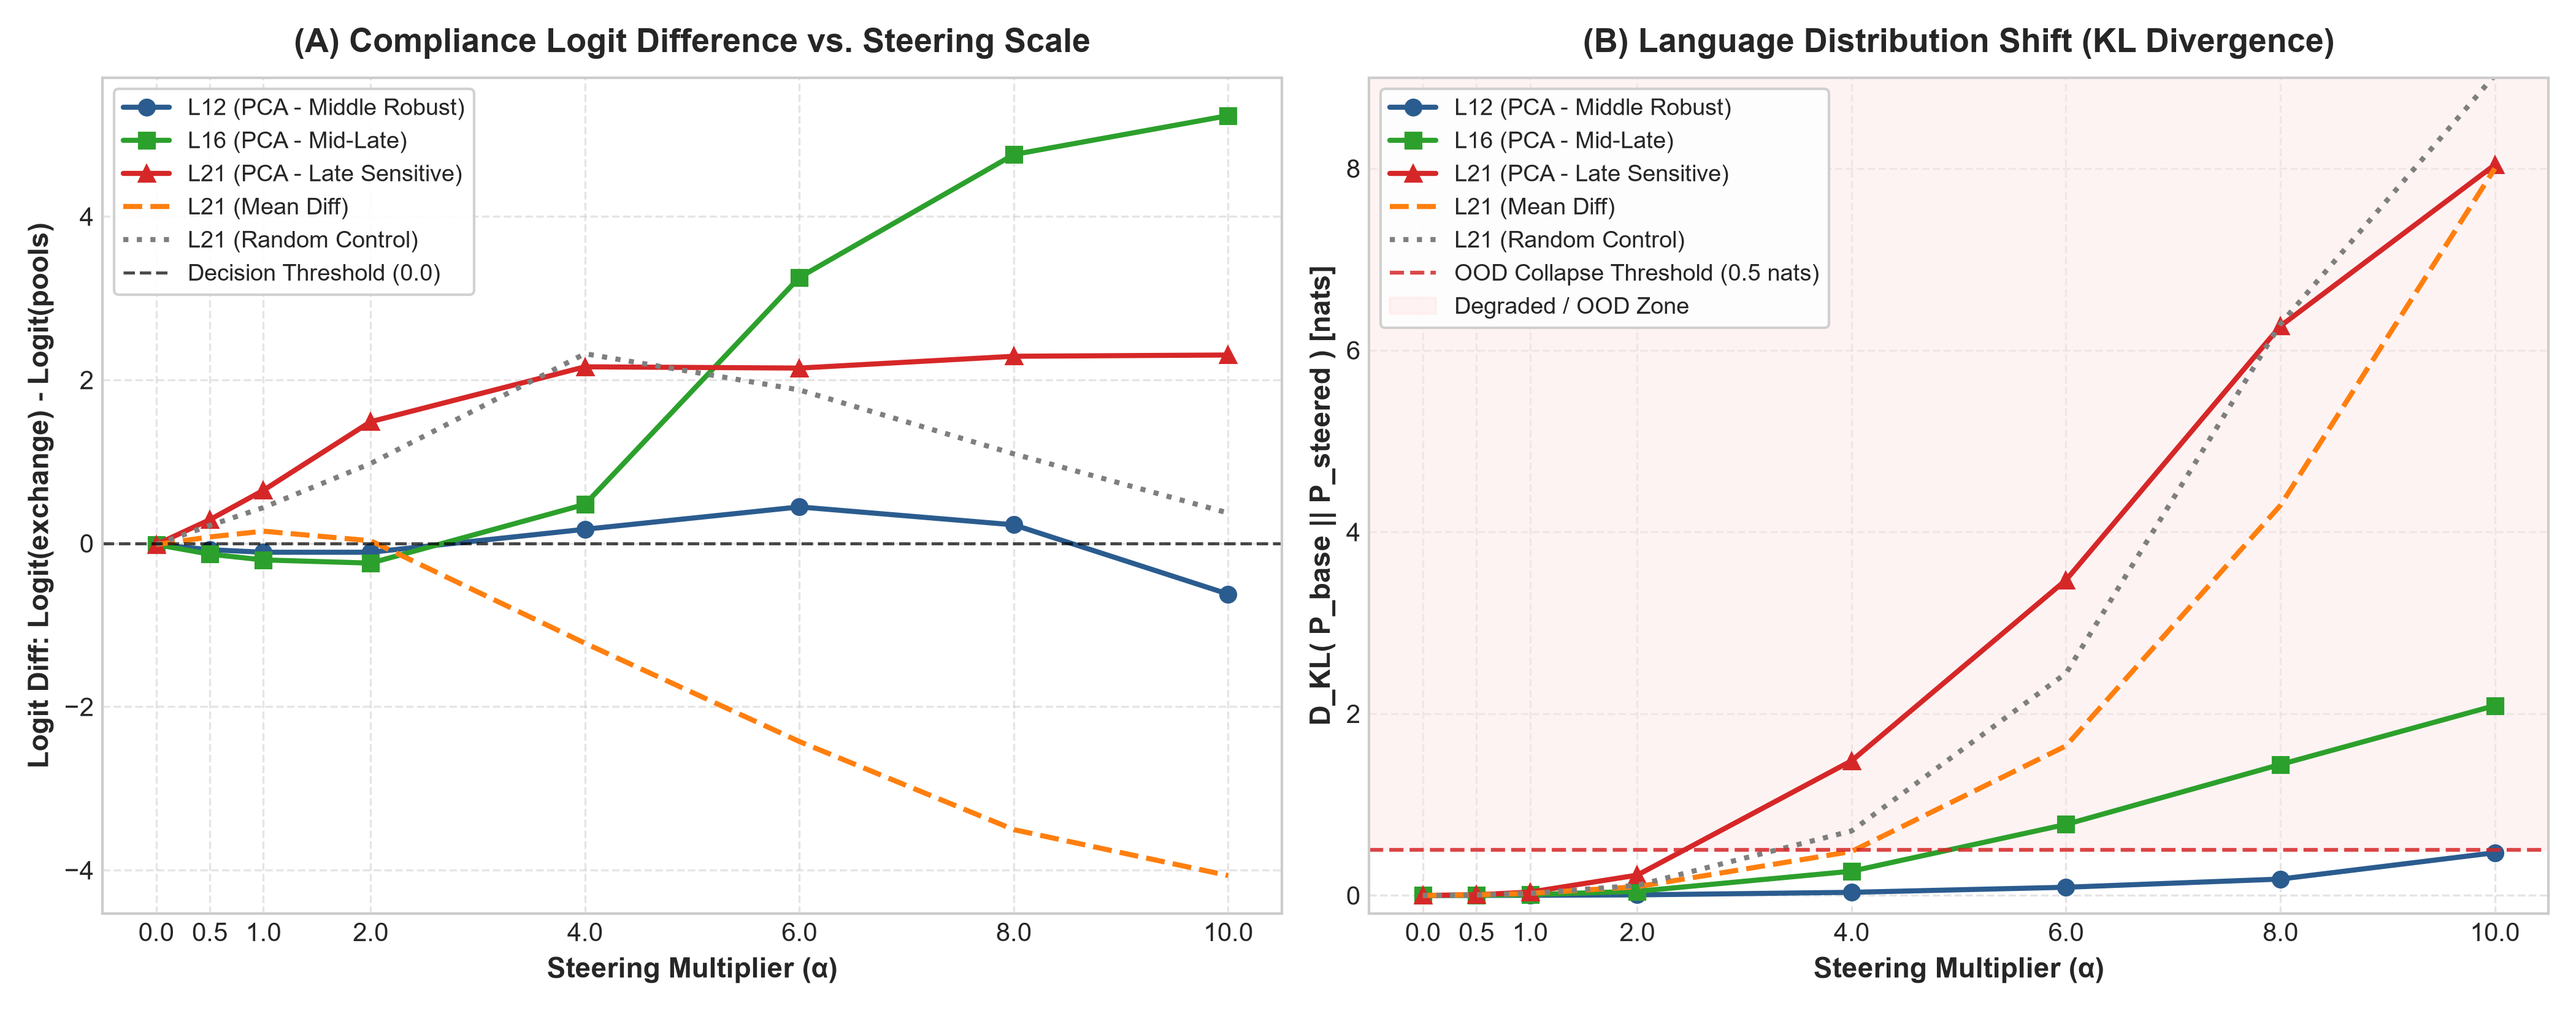
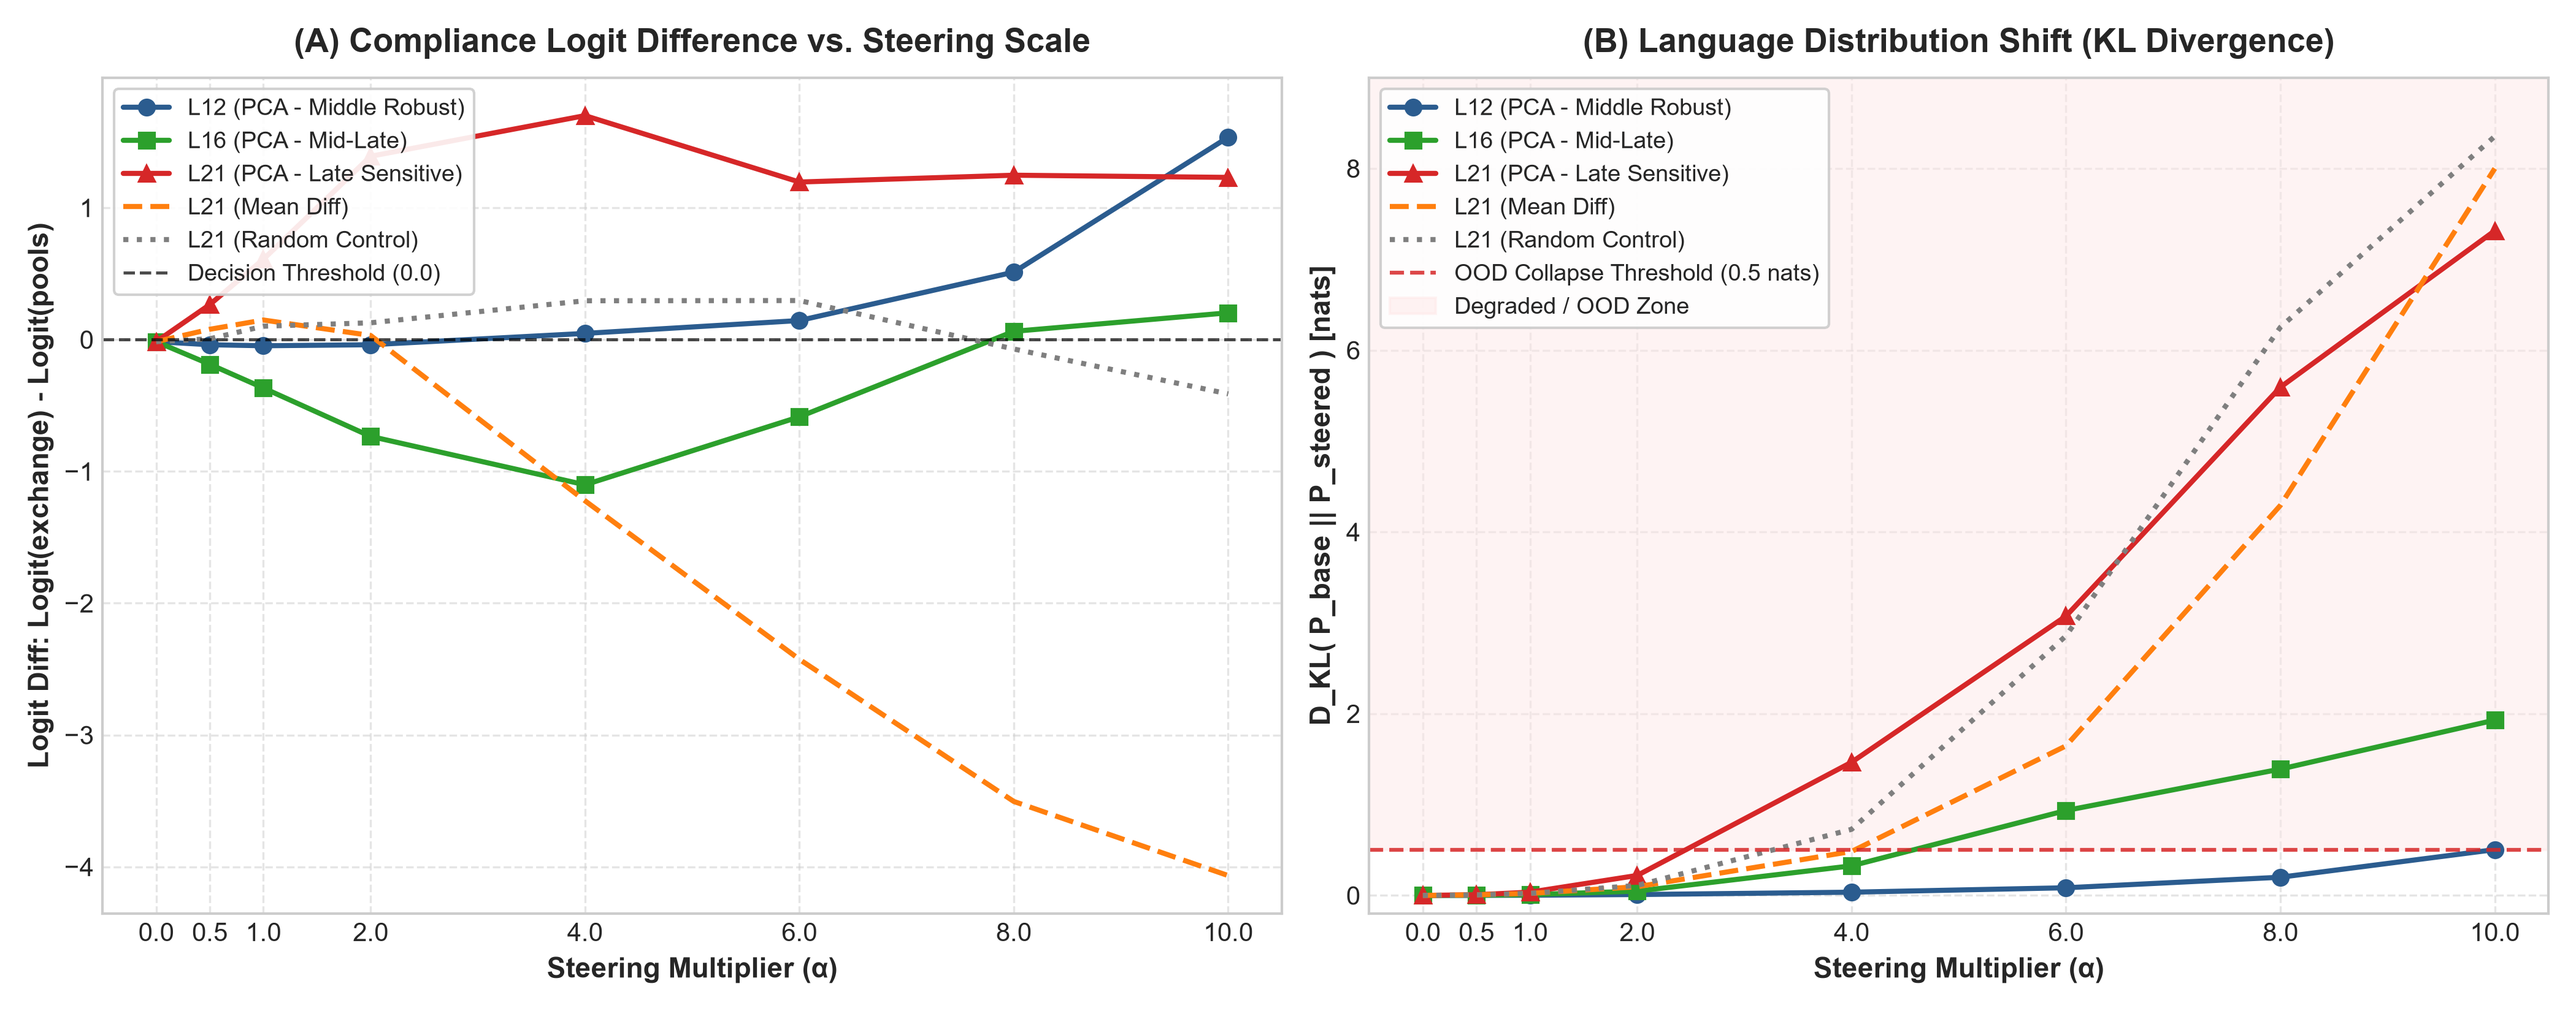
Update Random Control baseline to 50-sample empirical mean

diff --git a/mats_probing/plot_activation_steering.py b/mats_probing/plot_activation_steering.py
@@ -114,14 +114,8 @@ def generate_steering_plots():
         except Exception:
             v_steer_pca = v_steer_mean.clone()
 
-        # Random control
-        torch.manual_seed(42)
-        rand_vec = torch.randn_like(v_steer_mean).to(device)
-        v_steer_rand = ((rand_vec / rand_vec.norm()) * v_steer_mean.norm()).half()
-
-        vectors_to_test = [("PCA", v_steer_pca), ("Mean", v_steer_mean), ("Random", v_steer_rand)]
-
-        for vec_name, vec in vectors_to_test:
+        # Evaluate PCA and Mean
+        for vec_name, vec in [("PCA", v_steer_pca), ("Mean", v_steer_mean)]:
             diffs = []
             kls = []
             for alpha in alphas:
@@ -144,6 +138,42 @@ def generate_steering_plots():
                 kls.append(kl)
 
             results[(target_layer_idx, vec_name)] = {'diffs': diffs, 'kls': kls}
+
+        # Evaluate Random Control: Average over 50 random vectors of equivalent norm
+        if target_layer_idx == 21:
+            print("Evaluating 50-sample Random Control baseline for Layer 21...")
+            torch.manual_seed(42)
+            rand_diffs_mean = []
+            rand_kls_mean = []
+
+            for alpha in alphas:
+                if alpha == 0.0:
+                    rand_diffs_mean.append(baseline_diff)
+                    rand_kls_mean.append(0.0)
+                    continue
+
+                alpha_diffs = []
+                alpha_kls = []
+                for _ in range(50):
+                    rand_vec = torch.randn_like(v_steer_mean).to(device)
+                    v_rand = ((rand_vec / rand_vec.norm()) * v_steer_mean.norm()).half()
+
+                    steer_hook = steering_hook_builder(v_rand, alpha=alpha)
+                    steer_handle = model.model.layers[target_layer_idx].mlp.register_forward_pre_hook(steer_hook)
+                    with torch.no_grad():
+                        steered_logits = model(**test_tokens).logits[0, -1]
+                    steer_handle.remove()
+
+                    d = (steered_logits[comply_id] - steered_logits[bypass_id]).item()
+                    probs = torch.softmax(steered_logits.float(), dim=-1)
+                    k = torch.sum(baseline_probs_f32 * (torch.log(baseline_probs_f32 + 1e-10) - torch.log(probs + 1e-10))).item()
+                    alpha_diffs.append(d)
+                    alpha_kls.append(k)
+
+                rand_diffs_mean.append(float(np.mean(alpha_diffs)))
+                rand_kls_mean.append(float(np.mean(alpha_kls)))
+
+            results[(21, "Random")] = {'diffs': rand_diffs_mean, 'kls': rand_kls_mean}
 
     # 3. Create Publication-Quality Plot
     print("Generating visualization...")
